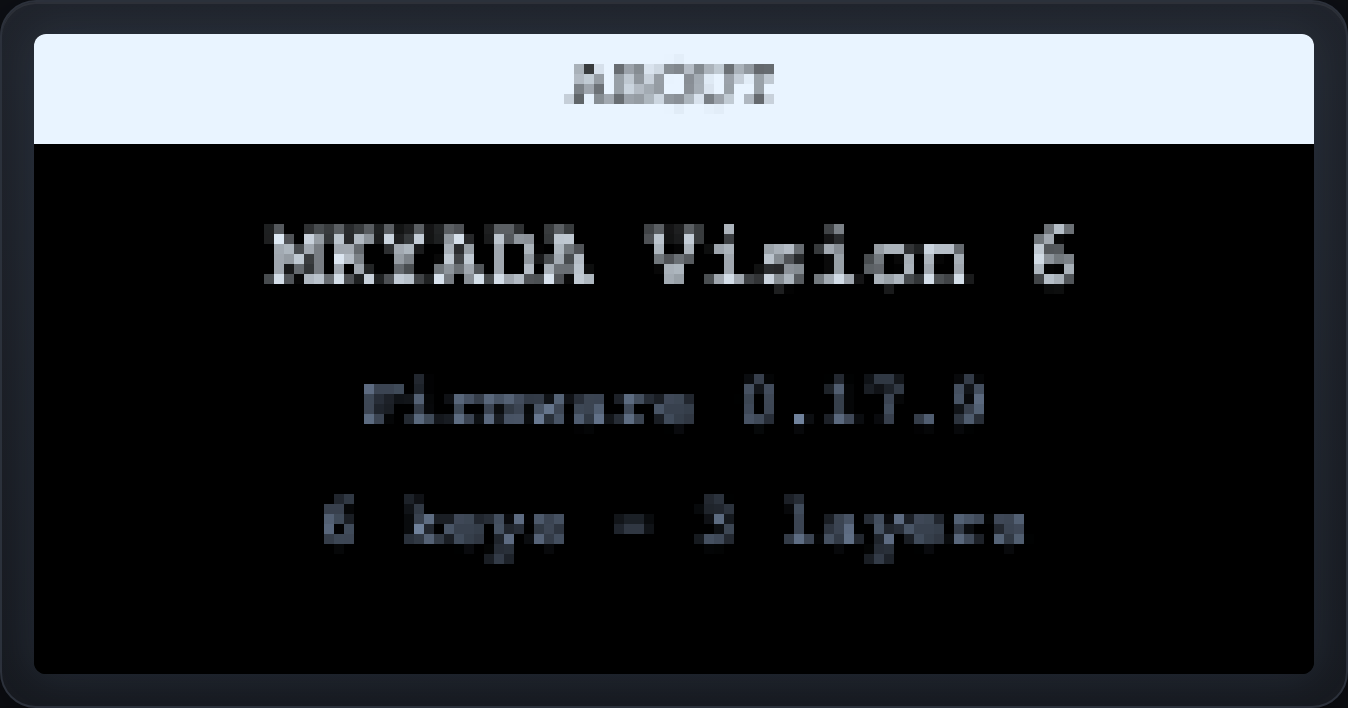
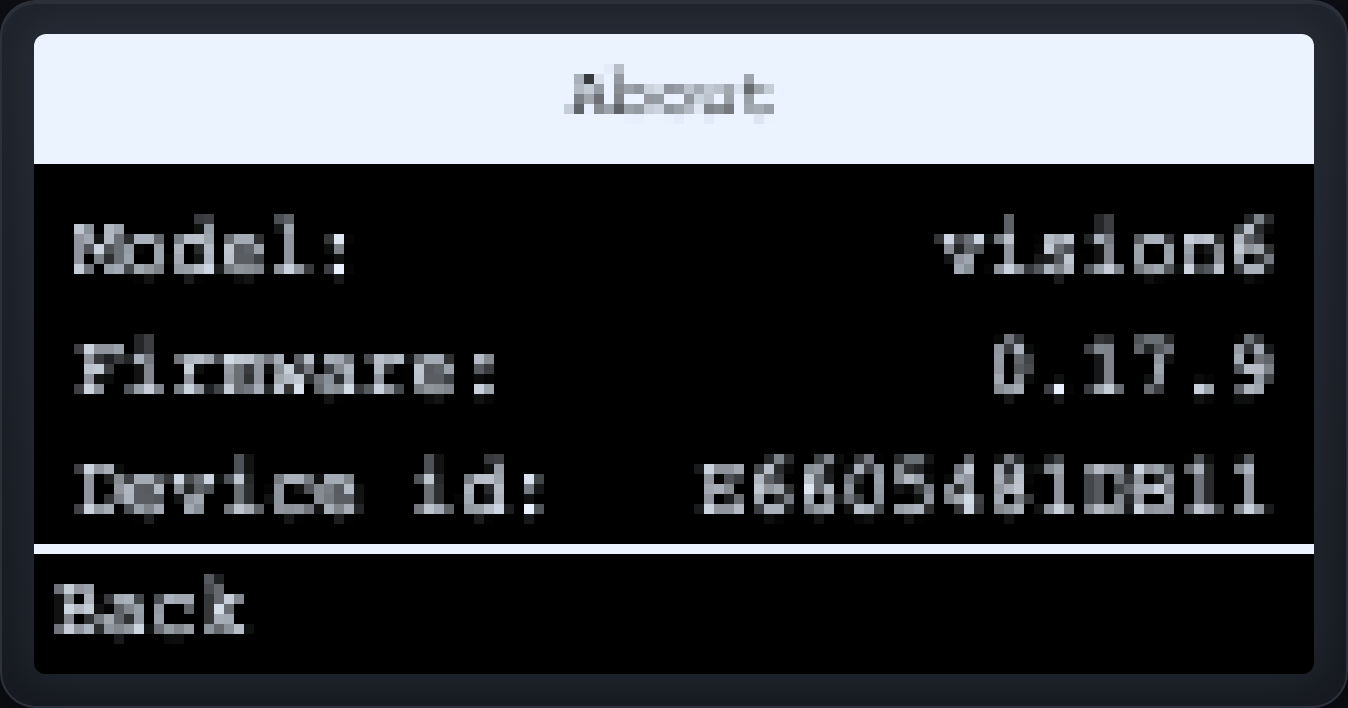
OLED mockups: match the real firmware screens 1:1 (v0.21.16)
The previous mockups invented a UI that didn't match the device. Redraw each
screen to mirror firmware/mkyada/oled.py exactly:
- Grid: 3×2 cells with vertical dividers, centered macro names wrapped to two
  lines by the same rule (_split_name), active cell inverted, "(A) Stream" band
- Home: big current-layer letter + the dot carousel (layers + SETTINGS)
- Speed: "A > K1  Speed" top bar, hero value, slider, Back/Save
- Settings: centered 3-row scrolling list (MENU_VIS=3) with the down-arrow
- About: label:value rows (Model / Firmware / Device id) with the Back bar

diff --git a/app/screenshots/oled.html b/app/screenshots/oled.html
@@ -4,12 +4,12 @@
     <meta charset="UTF-8" />
     <title>MKYADA Vision 6 — OLED mockups</title>
     <style>
-      /* Authentic SH1106 128×64 monochrome OLED. Each screen is DRAWN at true
-         128×64 on a canvas, then upscaled with image-rendering:pixelated so the
-         pixels are chunky and it reads like a real low-res display — not a
-         tiny terminal window. Every screen goes through the same draw helpers,
-         so they're pixel-consistent. The device bezel is baked into the
-         captured element (#oled-<id>) so it clearly reads as a screen. */
+      /* Faithful re-creation of the Vision 6 firmware's OLED screens. The
+         geometry mirrors firmware/mkyada/oled.py 1:1 — the 3×2 macro grid with
+         vertical dividers, the top/bottom bars, the home layer-carousel, the
+         centered settings list, the label:value About rows. Drawn at true
+         128×64 on a canvas, then upscaled with image-rendering:pixelated inside
+         a device bezel so it reads like the real low-res SH1106. */
       * { margin: 0; padding: 0; box-sizing: border-box; }
       body {
         background: #0d0f14;
@@ -20,24 +20,21 @@
         align-items: flex-start;
       }
       figure { display: flex; flex-direction: column; align-items: center; }
-      /* device bezel around the screen */
       .dev {
         background: linear-gradient(#20242c, #171a20);
         padding: 16px;
         border-radius: 18px;
-        box-shadow:
-          inset 0 1px 0 rgba(255, 255, 255, 0.06),
-          0 10px 30px rgba(0, 0, 0, 0.5);
+        box-shadow: inset 0 1px 0 rgba(255,255,255,.06), 0 10px 30px rgba(0,0,0,.5);
         border: 1px solid #2c313b;
       }
       canvas {
         display: block;
-        width: 640px;   /* 128 × 5 */
-        height: 320px;  /* 64 × 5 */
+        width: 640px;  /* 128 × 5 */
+        height: 320px; /* 64 × 5 */
         image-rendering: pixelated;
         image-rendering: crisp-edges;
         border-radius: 6px;
-        box-shadow: 0 0 22px rgba(150, 200, 255, 0.10);
+        box-shadow: 0 0 22px rgba(150,200,255,.10);
         background: #000;
       }
       figcaption {
@@ -50,117 +47,129 @@
     </style>
   </head>
   <body>
-    <figure><div class="dev" id="oled-home"><canvas width="128" height="64"></canvas></div><figcaption>Home — turn the wheel to pick a layer</figcaption></figure>
+    <figure><div class="dev" id="oled-home"><canvas width="128" height="64"></canvas></div><figcaption>Home — the layer carousel</figcaption></figure>
     <figure><div class="dev" id="oled-grid"><canvas width="128" height="64"></canvas></div><figcaption>Grid — the active layer's six macros</figcaption></figure>
     <figure><div class="dev" id="oled-speed"><canvas width="128" height="64"></canvas></div><figcaption>Speed editor — 0.1×–10.0× per macro</figcaption></figure>
-    <figure><div class="dev" id="oled-settings"><canvas width="128" height="64"></canvas></div><figcaption>Settings — tuned on the device or in the app</figcaption></figure>
-    <figure><div class="dev" id="oled-about"><canvas width="128" height="64"></canvas></div><figcaption>About — firmware &amp; hardware at a glance</figcaption></figure>
+    <figure><div class="dev" id="oled-settings"><canvas width="128" height="64"></canvas></div><figcaption>Settings menu</figcaption></figure>
+    <figure><div class="dev" id="oled-about"><canvas width="128" height="64"></canvas></div><figcaption>About — model, firmware, device id</figcaption></figure>
 
     <script>
-      const INK = "#e9f4ff"; // OLED lit pixel (cool white)
-      const DIM = "#7f93b0"; // secondary text
-      const W = 128, H = 64;
-
-      // Shared pixel-font settings so every screen matches exactly.
-      const FONT = "7px 'Courier New', monospace";
-      const LH = 10; // line pitch
+      const W = 128, H = 64, CX = 64;
+      const INK = "#eaf3ff";                 // OLED lit pixel
+      const F = "'Courier New', monospace";
+      const font = (px, bold) => (bold ? "bold " : "") + px + "px " + F;
 
       function ctxFor(id) {
-        const cv = document.querySelector("#" + id + " canvas");
-        const c = cv.getContext("2d");
+        const c = document.querySelector("#" + id + " canvas").getContext("2d");
         c.imageSmoothingEnabled = false;
-        c.textBaseline = "top";
-        c.font = FONT;
-        c.fillStyle = "#000";
-        c.fillRect(0, 0, W, H);
+        c.textBaseline = "middle";
+        c.fillStyle = "#000"; c.fillRect(0, 0, W, H);
+        c.fillStyle = INK;
         return c;
       }
-      function band(c, left, right) {
-        c.fillStyle = INK;
-        c.fillRect(0, 0, W, 11);
-        c.fillStyle = "#000";
-        c.fillText(left, 3, 2);
-        if (right) c.fillText(right, W - 3 - c.measureText(right).width, 2);
-      }
-      function text(c, x, y, s, color) {
-        c.fillStyle = color || INK;
+      const rect = (c, x, y, w, h) => c.fillRect(x, y, Math.max(1, w), Math.max(1, h));
+      function t(c, s, x, y, opt = {}) {
+        c.font = opt.font || font(8);
+        c.textAlign = opt.align || "center";
+        c.fillStyle = opt.color || INK;
         c.fillText(s, x, y);
       }
-      function rtext(c, xRight, y, s, color) {
-        c.fillStyle = color || INK;
-        c.fillText(s, xRight - c.measureText(s).width, y);
+      // inverted 13px title strip, centered black title (oled.py _top_bar)
+      function topBar(c, title) {
+        c.fillStyle = INK; rect(c, 0, 0, W, 13);
+        t(c, title, CX, 6, { color: "#000", font: font(7) });
       }
-      // a selectable list row; inv=selected (inverted strip)
-      function row(c, y, label, value, inv) {
-        if (inv) {
-          c.fillStyle = INK;
-          c.fillRect(1, y - 1, W - 2, LH);
-        }
-        text(c, 4, y, label, inv ? "#000" : INK);
-        if (value) rtext(c, W - 4, y, value, inv ? "#000" : DIM);
+      // 1px divider + "Back" left, optional action right (oled.py _bottom_bar)
+      function bottomBar(c, action) {
+        c.fillStyle = INK; rect(c, 0, H - 13, W, 1);
+        t(c, "Back", 2, H - 6, { align: "left", font: font(8) });
+        if (action) t(c, action, W - 2, H - 6, { align: "right", font: font(8) });
       }
 
+      // HOME: big current layer letter + a dot carousel (layers + SETTINGS)
       function drawHome(c) {
-        band(c, "", null);
-        // center the title
-        c.fillStyle = "#000";
-        c.fillText("HOME", (W - c.measureText("HOME").width) / 2, 2);
-        let y = 17;
-        row(c, y, "A  Stream", ">", true); y += 12;
-        row(c, y, "B  Edit"); y += 12;
-        row(c, y, "C  Dev"); y += 12;
-        row(c, y, "SETTINGS");
+        t(c, "A", CX, 24, { font: font(38, true) });
+        const layerCount = 3, n = layerCount + 1, pos = 0, gap = 14;
+        const x0 = CX - ((n - 1) * gap) / 2;
+        for (let i = 0; i < n; i++) {
+          const r = i === pos ? 3 : 1;
+          c.fillStyle = INK;
+          c.beginPath(); c.arc(x0 + i * gap, 54, r, 0, 7); c.fill();
+        }
       }
+
+      // GRID: 3×2 cells, vertical dividers, macro names centered (2-line wrap),
+      // active cell inverted, optional inverted layer/profile band on top.
       function drawGrid(c) {
-        band(c, "(A) STREAM", "OBS");
+        const band = "(A) Stream", BAND_H = 10, top = BAND_H;
+        c.fillStyle = INK; rect(c, 0, 0, W, BAND_H);
+        t(c, band, CX, 4, { color: "#000", font: font(8) });
+        const cw = 42, ch = ((H - top) / 2) | 0; // 42 × 27
+        c.fillStyle = INK;
+        rect(c, cw, top, 1, H - top); rect(c, 2 * cw, top, 1, H - top);
+        rect(c, 0, top + ch, W, 1);
+        // names, split to two lines exactly like the firmware does
         const cells = [
-          ["1", "Go Live"], ["2", "Record"], ["3", "Push-to-talk"],
-          ["4", "Discord"], ["5", "Mute"], ["6", "Now live!"],
+          ["Go Live"], ["Record"], ["Push-to-", "talk"],
+          ["Discord"], ["Mute"], ["Now", "live!"],
         ];
-        const cols = [2, 65], rowsY = [15, 31, 47];
-        cells.forEach(([n, name], i) => {
-          const x = cols[i % 2], y = rowsY[(i / 2) | 0], sel = i === 0;
-          if (sel) { c.fillStyle = INK; c.fillRect(x - 1, y - 1, 62, 14); }
-          text(c, x, y, n, sel ? "#000" : DIM);
-          text(c, x + 8, y, name, sel ? "#000" : INK);
+        const active = 0, y1 = 9, y2 = 18;
+        cells.forEach((lines, k) => {
+          const x = (k % 3) * cw, y = top + ((k / 3) | 0) * ch;
+          let col = INK;
+          if (k === active) { c.fillStyle = INK; rect(c, x, y, cw, ch); col = "#000"; }
+          const cx = x + cw / 2;
+          if (lines.length === 2) {
+            t(c, lines[0], cx, y + y1, { color: col });
+            t(c, lines[1], cx, y + y2, { color: col });
+          } else {
+            t(c, lines[0], cx, y + ch / 2, { color: col });
+          }
         });
       }
+
+      // SPEED: top bar, big value, slider, Back/Save (oled.py show_speed)
       function drawSpeed(c) {
-        band(c, "SPEED", "Go Live");
-        // big value, centered
-        c.font = "18px 'Courier New', monospace";
-        const v = "1.4x";
-        text(c, (W - c.measureText(v).width) / 2, 20, v, INK);
-        c.font = FONT;
-        // slider bar
-        c.strokeStyle = INK; c.lineWidth = 1;
-        c.strokeRect(18.5, 44.5, 91, 5);
-        c.fillStyle = INK; c.fillRect(19, 45, 42, 4);
-        text(c, 18, 54, "CONFIRM save", DIM);
-        rtext(c, W - 4, 54, "BACK", DIM);
+        topBar(c, "A > K1  Speed");
+        t(c, "1.4", CX, 28, { font: font(17, true) });
+        const bx = 8, by = 39, bw = W - 16, frac = 13 / 99;
+        c.fillStyle = INK;
+        rect(c, bx, by + 2, bw, 1);              // track
+        rect(c, bx, by, Math.round(frac * bw), 4); // fill
+        bottomBar(c, "Save");
       }
+
+      // SETTINGS: top bar + 3 visible centered rows, selected inverted, a
+      // down-arrow (more below), Back/Select (oled.py show_menu, MENU_VIS=3)
       function drawSettings(c) {
-        band(c, "", null);
-        c.fillStyle = "#000";
-        c.fillText("SETTINGS", (W - c.measureText("SETTINGS").width) / 2, 2);
-        const rows = [
-          ["Font", "Medium", true], ["Auto-return", "10s"], ["Language", "EN"],
-          ["Layer band", "On"], ["Profile band", "On"], ["About", ">"],
-        ];
-        let y = 14;
-        rows.forEach(([l, v, sel]) => { row(c, y, l, v, sel); y += 8.5; });
+        topBar(c, "Settings");
+        const items = ["Font", "Auto-return", "Language"], sel = 0;
+        items.forEach((s, row) => {
+          const y = 20 + row * 12;
+          let col = INK;
+          if (row === sel) { c.fillStyle = INK; rect(c, 0, y - 6, W - 8, 12); col = "#000"; }
+          t(c, s, CX, y, { color: col, font: font(8) });
+        });
+        // "more below" down-arrow on the right rail
+        c.fillStyle = INK;
+        c.beginPath();
+        c.moveTo(W - 7, 45); c.lineTo(W - 1, 45); c.lineTo(W - 4, 49); c.fill();
+        bottomBar(c, "Select");
       }
+
+      // ABOUT: top bar + label:value rows + Back (oled.py show_about)
       function drawAbout(c) {
-        band(c, "", null);
-        c.fillStyle = "#000";
-        c.fillText("ABOUT", (W - c.measureText("ABOUT").width) / 2, 2);
-        c.font = "9px 'Courier New', monospace";
-        const t = "MKYADA Vision 6";
-        text(c, (W - c.measureText(t).width) / 2, 18, t, INK);
-        c.font = FONT;
-        const l2 = "Firmware 0.17.9", l3 = "6 keys - 3 layers";
-        text(c, (W - c.measureText(l2).width) / 2, 34, l2, DIM);
-        text(c, (W - c.measureText(l3).width) / 2, 46, l3, DIM);
+        topBar(c, "About");
+        const rows = [
+          ["Model", "vision6"], ["Firmware", "0.17.9"], ["Device id", "E6605481DB11"],
+        ];
+        let y = 22;
+        rows.forEach(([l, v]) => {
+          t(c, l + ":", 4, y, { align: "left", font: font(8) });
+          t(c, v, W - 4, y, { align: "right", font: font(8) });
+          y += 12;
+        });
+        bottomBar(c, null);
       }
 
       drawHome(ctxFor("oled-home"));
